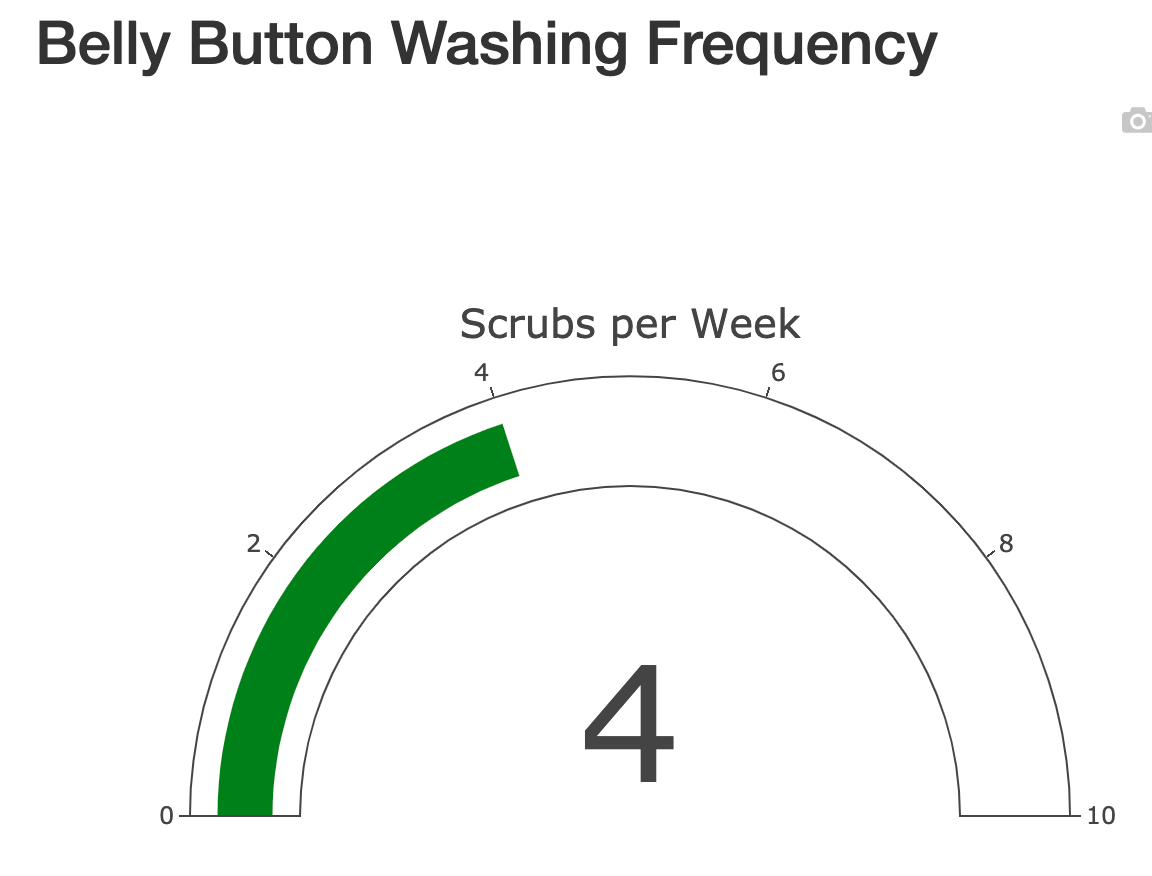
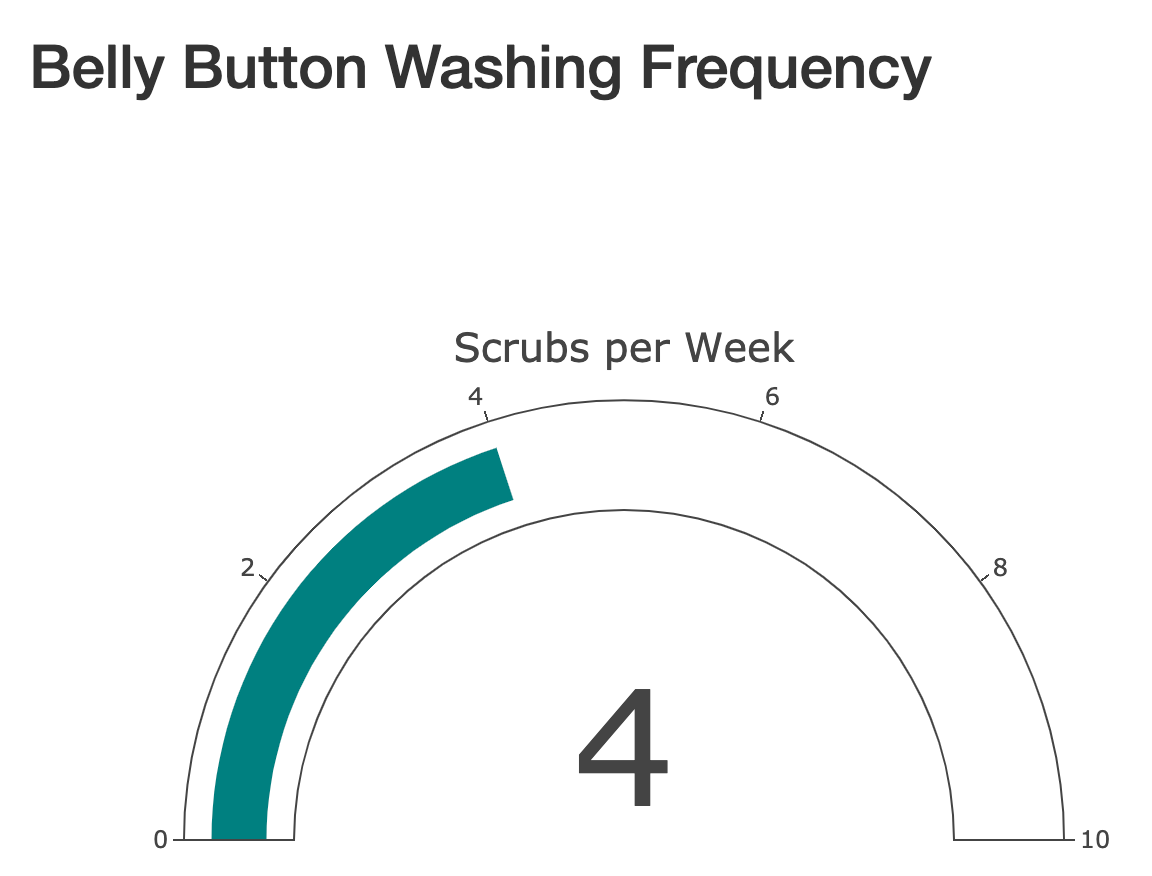
changed color on gauge chart

diff --git a/static/js/app.js b/static/js/app.js
@@ -125,8 +125,9 @@ function getPlot(id) {
             gauge: {
                 axis: { range: [0,10]},
                 threshold: {
-                    value: 10
-                }
+                    value: 10,
+                },
+            bar: {color: "teal"}
             }
         };
 

diff --git a/README.md b/README.md
@@ -8,4 +8,4 @@ Built an interactive dashboard to explore belly button habitats. Used a `D3` lib
 
 For an additional challenge a gauge chart was added to plot the weekly washing frequency of the individual.
 
-![Belly Button Dashboard gauge chart](images/bb_dashboard_03.png)
+![BB Dashboard gauge chart](images/bb_dashboard_03.png)
